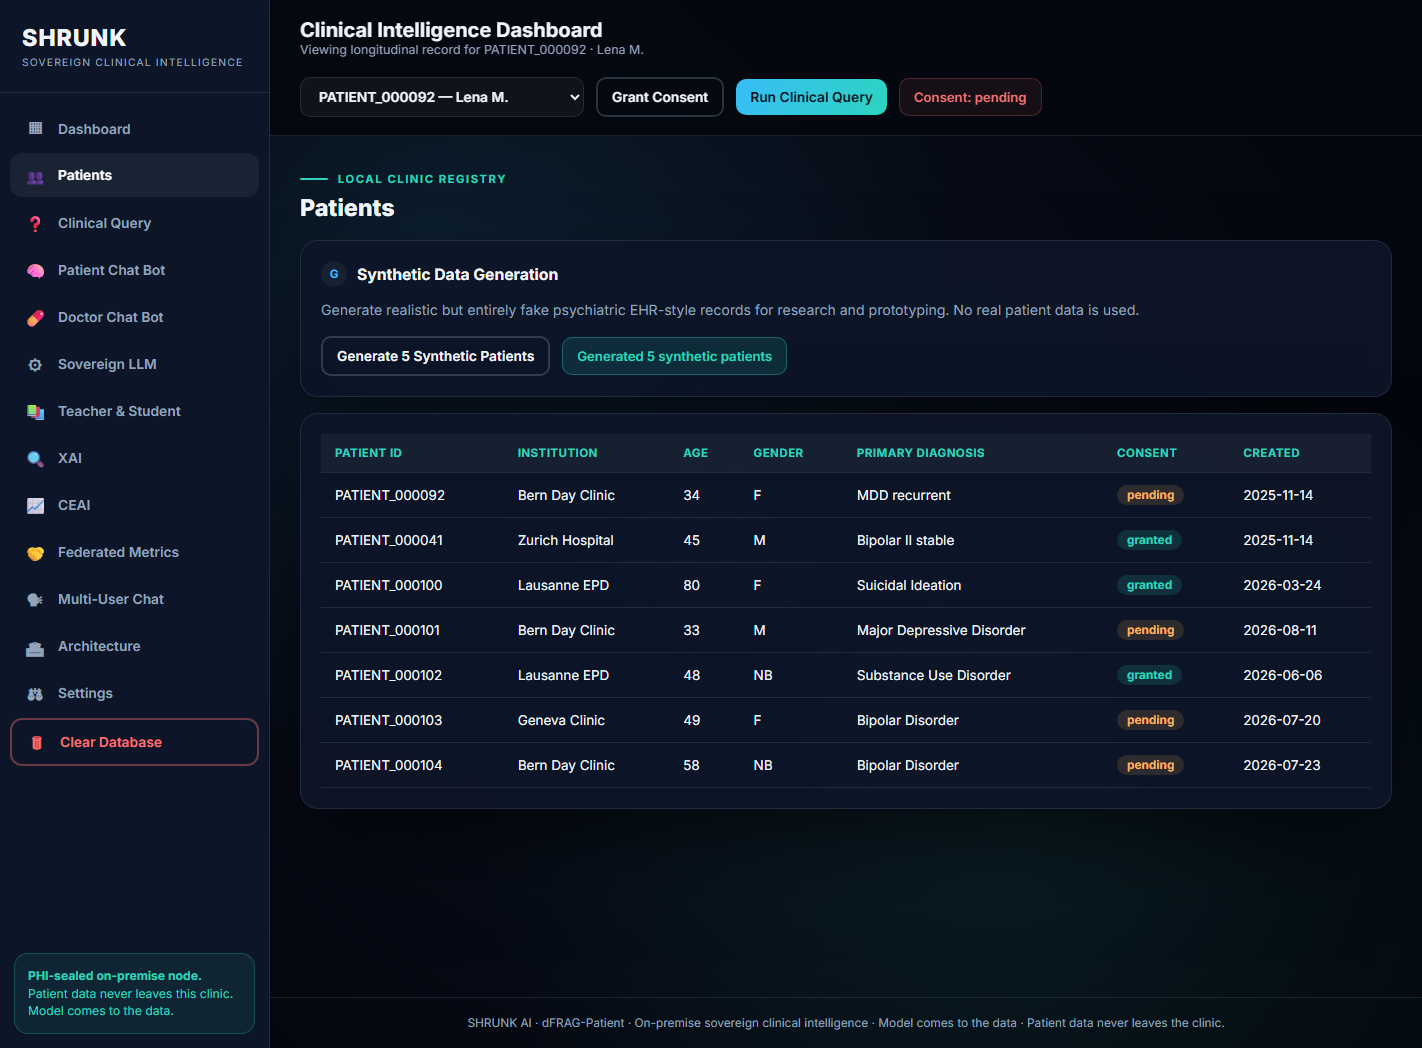
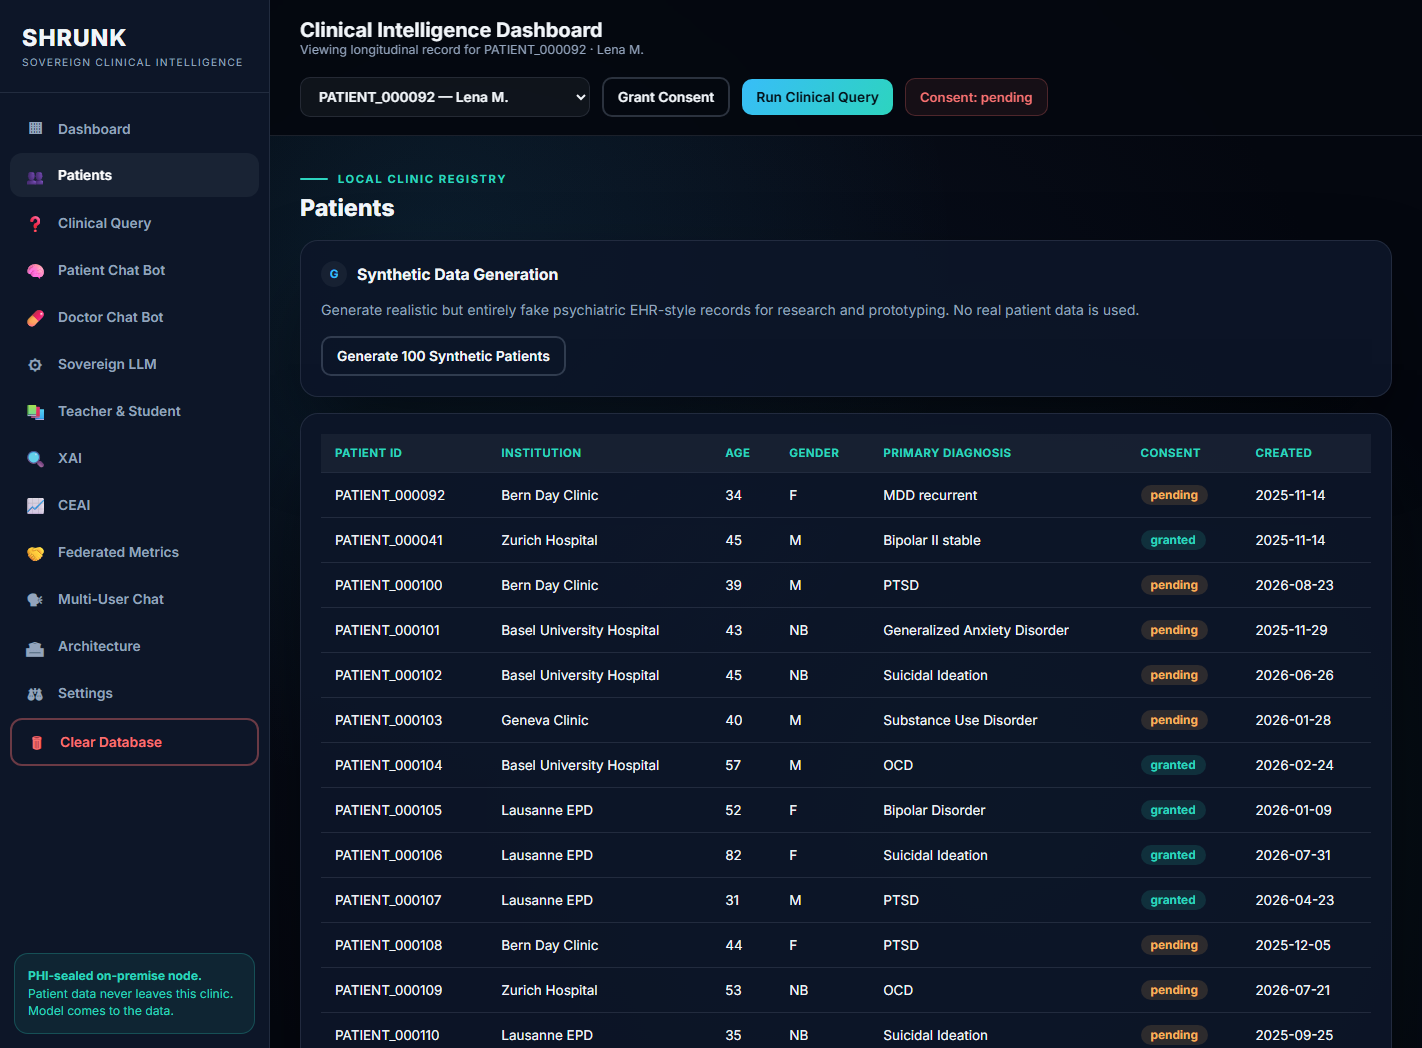
Generate 100 synthetic patients on load, refresh screenshots, bump pitch link to v=10.

diff --git a/dashboard/index.html b/dashboard/index.html
@@ -247,7 +247,7 @@ footer { padding: 18px 30px; border-top: 1px solid var(--line); color: var(--tex
           <h3><span class="num">O</span>Clinic Overview</h3>
           <p>Patients onboard through the clinic app with verified identity and consent. Clinicians start secure, timed sessions and query the Apertus-powered longitudinal record with XAI and CEAI transparency. Every answer is source-linked and every data movement is consent-gated.</p>
           <div style="display:flex; gap:12px; margin-top:14px; flex-wrap:wrap; align-items:center;">
-            <button class="secondary" onclick="generateSyntheticData(5)">Generate Synthetic Data</button>
+            <button class="secondary" onclick="generateSyntheticData(100)">Generate Synthetic Patients</button>
             <span id="genStatusOverview" class="pill" style="display:none;"></span>
           </div>
         </div>
@@ -262,7 +262,7 @@ footer { padding: 18px 30px; border-top: 1px solid var(--line); color: var(--tex
           <h3><span class="num">G</span>Synthetic Data Generation</h3>
           <p>Generate realistic but entirely fake psychiatric EHR-style records for research and prototyping. No real patient data is used.</p>
           <div style="display:flex; gap:12px; margin-top:14px; flex-wrap:wrap; align-items:center;">
-            <button class="secondary" onclick="generateSyntheticData(5)">Generate 5 Synthetic Patients</button>
+            <button class="secondary" onclick="generateSyntheticData(100)">Generate 100 Synthetic Patients</button>
             <span id="genStatusPatients" class="pill" style="display:none;"></span>
           </div>
         </div>
@@ -659,7 +659,7 @@ function init() {
   loadPatient('lena');
   renderPatientsTable();
   updateOverviewStats();
-  generateSyntheticData(5);
+  generateSyntheticData(100);
   initMultiUserChat();
 }
 
@@ -759,7 +759,7 @@ function generateSyntheticData(count) {
     const gender = pick(genders);
     const institution = pick(institutions);
     const name = pick(firstNames) + ' ' + pick(lastNames);
-    const noteCount = Math.floor(Math.random() * 4) + 3;
+    const noteCount = Math.floor(Math.random() * 5) + 3;
     const createdAt = new Date(Date.now() - Math.floor(Math.random() * 365) * 86400000).toISOString().slice(0, 10);
 
     const noteIds = [];

diff --git a/index.html b/index.html
@@ -1580,8 +1580,8 @@ GRID (centers):   left = cx - 800 · top = cy - 450   · world 5600x4300
 
                 <div class="story a" style="--i:2; flex:1; display:flex; flex-direction:column; justify-content:center; align-items:center; gap:18px;">
                     <div style="position:relative; width:100%; max-width:1320px; border-radius:24px; overflow:hidden; border:1px solid var(--line); box-shadow:0 24px 80px rgba(0,0,0,0.5);">
-                        <img src="assets/screenshot_dashboard.png?v=9" alt="SHRUNK clinical intelligence dashboard" style="width:100%; display:block;">
-                        <a href="dashboard/?v=9" target="_blank" rel="noopener"
+                        <img src="assets/screenshot_patients.png?v=10" alt="SHRUNK clinical intelligence dashboard" style="width:100%; display:block;">
+                        <a href="dashboard/?v=10" target="_blank" rel="noopener"
                            style="position:absolute; bottom:18px; right:18px; background:linear-gradient(120deg, var(--primary), var(--accent)); color:#04121a; padding:12px 22px; border-radius:12px; font-weight:700; text-decoration:none; font-size:15px;">
                            Open Interactive Dashboard &rarr;
                         </a>
